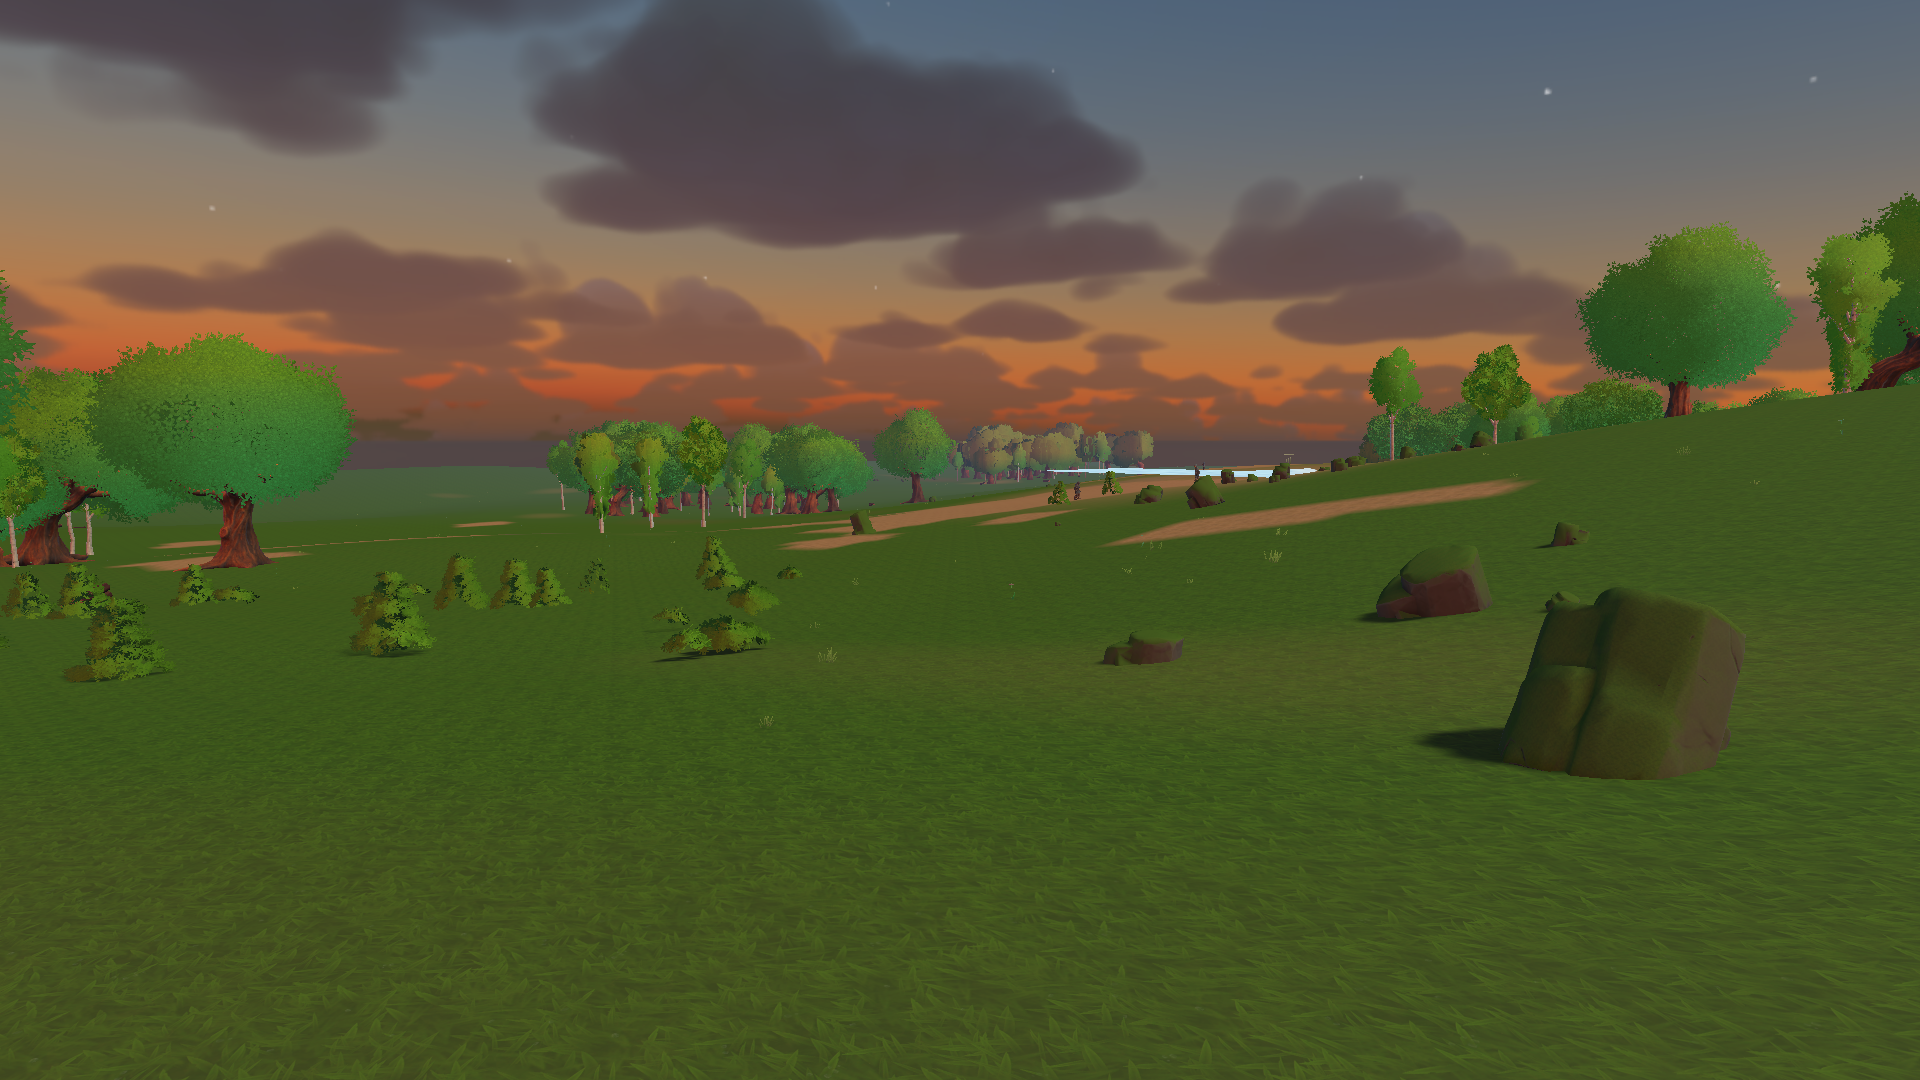
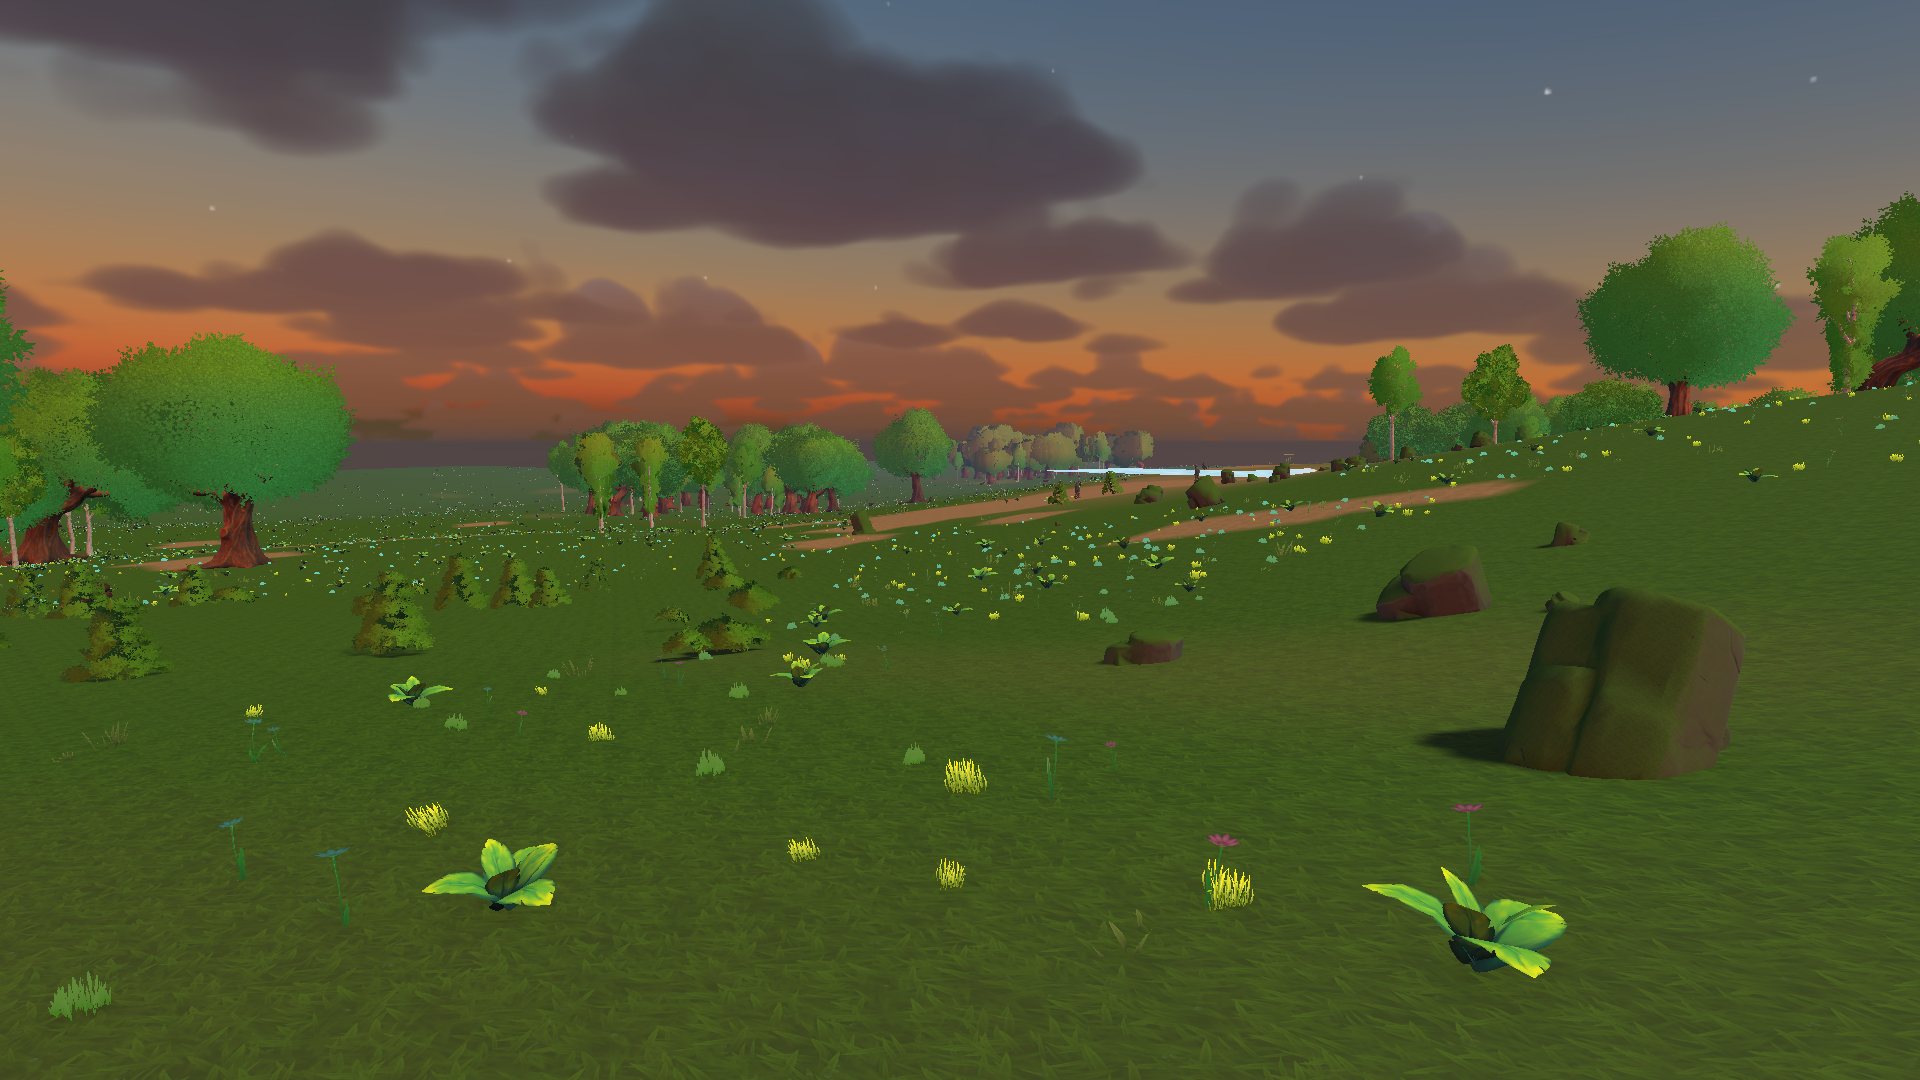
TD-130: THE MEADOW, IN SIX MEASURED PASSES, AND FIVE OF THEM WERE MY OWN ERROR (D-246)
EP orders honoured: the expensive packs first, the codex is master, and be careful --
the environment has been attempted many times and rarely succeeded. So: no change
without a number before it and a picture after it.

  meadow      6 255 -> 100 433 tufts, merged into 1 399 meshes
  tuft        0,45 m mean (26% of a person), measured for the first time
  cost        draw calls 1 114 / 2 500 | 1,9M tris | frame 2,5 -> 4,9 ms (204 fps)
  RUN_GROUNDCAP GREEN 23/23 | RUN_GOLDEN GREEN | RUN_COMPILE CLEAN

The pass that mattered: raising near-settlement density from 30 to 60 changed the tuft
count by ZERO -- 37 655 both times, exactly 6,0x the meadow tiles. The near mask is
built from S.huts and NATURE IS SOWN BEFORE ANYONE HAS BUILT A HUT, so it was never
true anywhere. The number that refused to move named the fault, which is the EP's own
law inherited verbatim.

The term nobody had computed: COVERAGE. Thirty tufts of 0,38 m in a 64 m2 tile cover
about 7% of it, and 7% is a lawn with weeds however the count reads. Grass reads at
40-70%. Coverage is bought far cheaper with SIZE than with count.

Four more of my own errors, each named in DECISIONS: assuming height was the fault
without measuring the blade; pouring in ALL the bought plants including the CITY pack's
window-box flowers, which turned open meadow into a lavender field; giving the new
plants no scale law, so the tallest went to 1,90 m -- the menhir mistake with leaves;
[…]

diff --git a/Assets/Emergence/Fas3/Runtime/Fas3NatureScatter.cs b/Assets/Emergence/Fas3/Runtime/Fas3NatureScatter.cs
@@ -38,10 +38,40 @@ namespace Emergence.Runtime
         // measured at 0.30/tile: one tuft per 64 square metres, which reads as a bald lawn with
         // occasional weeds. 1.0 puts a tuft roughly every 8 m of walking - sparse enough to stay a
         // meadow and not a jungle, dense enough that the ground has texture wherever you stand.
-        public const float TuftsPerMeadowTile = 1.0f;
-        public const int PlacementsPerFrame = 120;   // keeps the opening smooth on a mid machine
+        // D-246 — THE MEADOW WAS TWO HUNDRED TIMES TOO THIN, AND THE COMMENT ABOVE SAYS WHY IT WAS
+        // NOT NOTICED: "one tuft per 8 m of walking" is true PER TILE and meaningless per SQUARE.
+        // A tile is 8x8 m = 64 m2, so 1.0/tile is one tuft per sixty-four square metres. At eye
+        // level that is bare ground with a weed in it, which is exactly what the EP saw and what
+        // ground-eye-level.png shows. Grass reads as grass at roughly one tuft per 2..5 m2.
+        //
+        // Density is not uniform, because the eye is not uniform: the camera lives in the village.
+        // Near the huts the meadow is thick; out in the far field it stays cheap, where the tufts
+        // are pixels anyway. The tufts merge per 48 m block AFTER placement (D-224), so the cost of
+        // this is triangles and not draw calls — and the probe prices both against the A6 budget.
+        // Second pass, and this time against a MEASURED blade rather than a guess: the probe now
+        // prints "tuft height 0,42 m mean, 24% of a person". The blade is knee height and correct.
+        // So height was never the term -- 3.0/tile is one tuft per 21 m2, and a knee-high tuft every
+        // twenty-one square metres is a dot on a field. Grass reads as grass at roughly one per 2 m2.
+        // FOURTH PASS, and the number refused to move: raising the near-settlement density from 30 to
+        // 60 changed the tuft count by ZERO -- 37 655 both times, which is exactly 6,0 x the meadow
+        // tiles. So the near mask was never true anywhere. It is built from S.huts, and NATURE IS
+        // SOWN BEFORE ANYONE HAS BUILT A HUT: at world start there are no huts, so the mask is empty
+        // and every tuft took the far-field value. The mask stays (a loaded save has huts, and it will
+        // matter the day the meadow is re-sown), but it cannot be what carries the picture.
+        // What carries it is COVERAGE, computed rather than felt: a tuft at scale ~0,7 of a ~1,5 m
+        // authored plant covers roughly 0,8 m2, a tile is 64 m2, so 16/tile is about 20% ground
+        // coverage -- thin meadow rather than lawn, and the honest limit of what 100 000 merged
+        // objects can buy. Past this the answer is a ground texture that carries the near field, not
+        // more objects; that is written down in STATE rather than guessed at here.
+        public const float TuftsPerMeadowTile = 16.0f;
+        public const float TuftsNearSettlement = 60.0f;   // where the eye stands, for coverage rather than count
+        public const int   NearSettlementTiles = 12;     // 96 m around any hut
+        // Raised with the density: at 120 a fifty-thousand-tuft meadow would take four hundred frames
+        // to appear. Tufts are cheap to instantiate and are merged away immediately afterwards.
+        public const int PlacementsPerFrame = 600;   // keeps the opening smooth on a mid machine
 
         public static string LastNote = "";
+        public static string TuftHeightNote = "";
         public static int Placed { get; private set; }
 
         static readonly string[] TreeNames  = { "Prefab_TreeLarge_01", "Prefab_TreeLarge_02", "Prefab_TreeLarge_03", "Prefab_TreeLarge_04",
@@ -49,8 +79,30 @@ namespace Emergence.Runtime
         static readonly string[] RockNames  = { "Prefab_RockFormation_01", "Prefab_RockFormation_02", "Prefab_RockFormation_03", "Prefab_RockFormation_04", "P_ENV_stone_01" };
         static readonly string[] BushNames  = { "Prefab_Bush_01", "Prefab_Bush_02", "Prefab_Bush_03" };
         static readonly string[] TrunkNames = { "P_PROP_treetrunk_01", "P_PROP_treetrunk_02", "P_PROP_treetrunk_03", "P_PROP_treetrunk_04" };
-        static readonly string[] TuftNames  = { "Prefab_Grass_01_Detail", "Prefab_Grass_Group_01_Detail", "Prefab_Grass_03_Detail",
-                                                "Prefab_Flower_02", "Prefab_Flower_04" };
+        // D-246 — THE EXPENSIVE PACKS FIRST (EP order). The meadow was built entirely out of
+        // Dreamscape TERRAIN-DETAIL props, which are authored for a detail prototype's own hidden
+        // size multiplier and therefore need one applied by hand (see the scale law below). The two
+        // packs this studio actually paid for ship their own standalone ground plants -- village
+        // grass, city grass, bushes and flowers -- and not one of them had ever been placed. They are
+        // authored as ordinary props at ordinary size, so they need no correction at all.
+        // Bought geometry leads; the Dreamscape details stay as filler for spread.
+        // SECOND PASS, FROM THE PICTURE. Putting the bought plants in was right; putting ALL of them
+        // in was not. P_ENV_flower_city_* are the CITY pack's window-box flowers -- saturated purple
+        // and yellow, authored to sit in a planter on a street. Scattered across open meadow at three
+        // of eleven names they became a lavender field, and the world read as a garden centre rather
+        // than as land nobody has planted. They keep their place -- in the planters, where the codex
+        // already owns them. The MEADOW is grass, with the muted Dreamscape flowers as the rare one.
+        // FIFTH PASS, from the picture again. The set is drawn from UNIFORMLY, so a name in it is a
+        // tenth of the meadow -- and P_ENV_PLANT_leaf_village is a broad-leafed decorative rosette
+        // three times the visual mass of a grass clump. One name in ten became the thing the eye
+        // saw everywhere: the ground read as a bed of hostas. A set is a WEIGHTING, not a list; the
+        // grasses are repeated because the meadow is grass, and the leaf and the flowers are the
+        // rare thing you notice precisely because they are rare.
+        static readonly string[] TuftNames  = { "P_ENV_PLANT_grass_village", "P_ENV_PLANT_grass_village", "P_ENV_PLANT_grass_village",
+                                                "P_ENV_grass_city_01", "P_ENV_grass_city_01", "P_ENV_grass_city_01",
+                                                "Prefab_Grass_01_Detail", "Prefab_Grass_03_Detail",
+                                                "Prefab_Grass_Group_01_Detail", "Prefab_Grass_Group_01_Detail",
+                                                "P_ENV_PLANT_leaf_village", "Prefab_Flower_02", "Prefab_Flower_04" };
 
         /// <summary>Scatter the natural world across frames. Returns a coroutine to drive from a MonoBehaviour.</summary>
         public static IEnumerator Scatter(WorldState S, Transform parent)
@@ -71,6 +123,25 @@ namespace Emergence.Runtime
             int budget = 0, treeN = 0, rockN = 0, bushN = 0, trunkN = 0, tuftN = 0;
             var tuftRoot = new GameObject("Tufts").transform;
             tuftRoot.SetParent(parent, false);
+            // where the eye stands. A flag per tile beats a distance test per tuft, and it is a pure
+            // read of exported hut positions - no RNG, so two runs of one world grow the same meadow.
+            bool[] near = null;
+            if (S.huts != null && S.huts.Length > 0)
+            {
+                near = new bool[S.W * S.H];
+                foreach (var h in S.huts)
+                {
+                    int cx = Mathf.RoundToInt(h.x), cy = Mathf.RoundToInt(h.y);
+                    for (int dy = -NearSettlementTiles; dy <= NearSettlementTiles; dy++)
+                        for (int dx = -NearSettlementTiles; dx <= NearSettlementTiles; dx++)
+                        {
+                            int nx = cx + dx, ny = cy + dy;
+                            if (nx < 0 || ny < 0 || nx >= S.W || ny >= S.H) continue;
+                            if (dx * dx + dy * dy > NearSettlementTiles * NearSettlementTiles) continue;
+                            near[ny * S.W + nx] = true;
+                        }
+                }
+            }
             for (int y = 0; y < S.H; y++)
                 for (int x = 0; x < S.W; x++)
                 {
@@ -102,7 +173,9 @@ namespace Emergence.Runtime
                     // grass tufts on open meadow and forest floor - the ground the player walks on.
                     // Kept under their OWN parent so the batching pass can find them without guessing.
                     if ((t == 'g' || t == 'f') && tufts.Count > 0)
-                        tuftN += Place(S, tuftRoot, tufts, x, y, TuftsPerMeadowTile, 59, ref budget, Bed.Tuft, true);
+                        tuftN += Place(S, tuftRoot, tufts, x, y,
+                                       near != null && near[y * S.W + x] ? TuftsNearSettlement : TuftsPerMeadowTile,
+                                       59, ref budget, Bed.Tuft, true);
 
                     if (budget >= PlacementsPerFrame) { budget = 0; yield return null; }
                 }
@@ -122,18 +195,46 @@ namespace Emergence.Runtime
             // single blade's position — the placement law above is untouched, and the picture is
             // byte-identical. Merging is done AFTER placement rather than instead of it, so the
             // grounding, bedding and tilt laws stay exactly one implementation.
+            // D-246: MEASURE THE BLADE BEFORE IT IS MERGED. Density was tripled and the ground still
+            // read as texture, and the next move is NOT a fourth density guess -- it is the height of
+            // one tuft in metres, which nobody had ever printed. Sampled before the merge, because a
+            // merged block has no individual bounds left to ask.
+            TuftHeightNote = MeasureTufts(tuftRoot);
             int tuftDrawn = CombineTufts(tuftRoot);
 
             Placed = treeN + rockN + bushN + trunkN + tuftN;
             LastNote = "nature: " + treeN + " trees, " + rockN + " rocks, " + bushN + " bushes, " + trunkN + " fallen trunks, "
                      + tuftN + " grass tufts merged into " + tuftDrawn + " meshes"
                      + "  (sets: " + trees.Count + "/" + rocks.Count + "/" + bushes.Count + "/" + tufts.Count + ")";
+            LastNote += "  | " + TuftHeightNote;
         }
 
         /// <summary>Merge the scattered tufts into one mesh per (block, material). Blocks are 48 m,
         /// which is coarse enough to collapse the count and fine enough that frustum culling still
         /// throws most of the meadow away. Returns the number of renderers left standing.</summary>
         const float TuftBlock = 48f;
+
+        /// <summary>The tuft, in metres, against the 1,75 m yardstick. A meadow the eye can read
+        /// wants roughly knee height; anything under ~0,25 m is a texture no matter how many there are.</summary>
+        static string MeasureTufts(Transform root)
+        {
+            if (root == null || root.childCount == 0) return "tufts: none";
+            float min = float.MaxValue, max = 0f, sum = 0f; int n = 0;
+            for (int i = 0; i < root.childCount; i++)
+            {
+                var rs = root.GetChild(i).GetComponentsInChildren<Renderer>();
+                if (rs.Length == 0) continue;
+                var b = rs[0].bounds;
+                for (int k = 1; k < rs.Length; k++) b.Encapsulate(rs[k].bounds);
+                float h = b.size.y;
+                if (h <= 0f) continue;
+                min = Mathf.Min(min, h); max = Mathf.Max(max, h); sum += h; n++;
+            }
+            if (n == 0) return "tufts: no bounds";
+            float mean = sum / n;
+            return "tuft height " + mean.ToString("F2") + " m mean (" + min.ToString("F2") + ".." + max.ToString("F2")
+                 + "), " + (mean / 1.75f * 100f).ToString("F0") + "% of a person";
+        }
 
         static int CombineTufts(Transform root)
         {
@@ -236,7 +337,20 @@ namespace Emergence.Runtime
                     // meadow. Target ~0,55 m: over the boot, under the knee.
                     // D-221: the top of this range read as pale sticks at distance — a tuft that
                     // tall is a reed bed, not meadow. Capped where it stops being grass.
-                    sc = 0.32f + Hash01(x, y, salt + 600 + i) * 0.52f;
+                    // THIRD PASS, and the term that had never been computed: COVERAGE. Thirty tufts
+                    // of 0,38 m in a 64 m2 tile cover about 7% of it, and 7% is a lawn with weeds no
+                    // matter how the count reads. Grass reads as grass at 40-70% ground coverage.
+                    // Coverage goes up far cheaper through SIZE than through count -- doubling the
+                    // width of one clump quadruples what it hides -- so the band widens and the set
+                    // leans on the pack's GROUP mesh. Still under the knee at the top (0,95 x ~1,5 m
+                    // authored = 1,4 m only for the rare tallest), which is where D-221 drew the line.
+                    sc = 0.45f + Hash01(x, y, salt + 600 + i) * 0.50f;
+                else if (prefab.name.StartsWith("P_ENV_PLANT") || prefab.name.StartsWith("P_ENV_grass"))
+                    // The bought ground plants get the same yardstick as everything else, because they
+                    // never had one: the probe measured the meadow at 0,63 m mean and 1,90 m max after
+                    // they came in, and a 1,9 m plant in open grass is the menhir mistake with leaves.
+                    // Target the same band as the tufts they stand among: over the boot, under the knee.
+                    sc = 0.38f + Hash01(x, y, salt + 600 + i) * 0.34f;
                 else if (prefab.name.StartsWith("P_PROP_treetrunk"))
                     // measured 2,0 m — a stump taller than a child. A cut stump is knee-to-thigh.
                     sc *= 0.45f;

diff --git a/Assets/Emergence/Fas3/Editor/CatalogBuild.cs b/Assets/Emergence/Fas3/Editor/CatalogBuild.cs
@@ -134,6 +134,13 @@ namespace Emergence.Editor
                                    "Prefab_RockFormation_01", "Prefab_RockFormation_02", "Prefab_RockFormation_03", "Prefab_RockFormation_04",
                                    "P_ENV_stone_01",
                                    "Prefab_Bush_01", "Prefab_Bush_02", "Prefab_Bush_03",
+                                   // D-246 (EP order: the expensive packs first): the Village and City
+                                   // packs ship their own ground plants and not one had ever been asked
+                                   // for by name, so the meadow was built entirely of Dreamscape detail
+                                   // props. A name the catalog does not carry is a name the runtime
+                                   // cannot reach -- the same law the variants were losing to.
+                                   "P_ENV_PLANT_grass_village", "P_ENV_grass_city_01", "P_ENV_PLANT_leaf_village",
+                                   "P_ENV_flower_city_01", "P_ENV_flower_city_02", "P_ENV_flower_city_03",
                                    "P_PROP_treetrunk_01", "P_PROP_treetrunk_02", "P_PROP_treetrunk_03", "P_PROP_treetrunk_04",
                                    // VAG 1.5: the water. 4% of the map is lake and none of it was ever
                                    // rendered in the living loop — the dresser's water law was editor-only.
